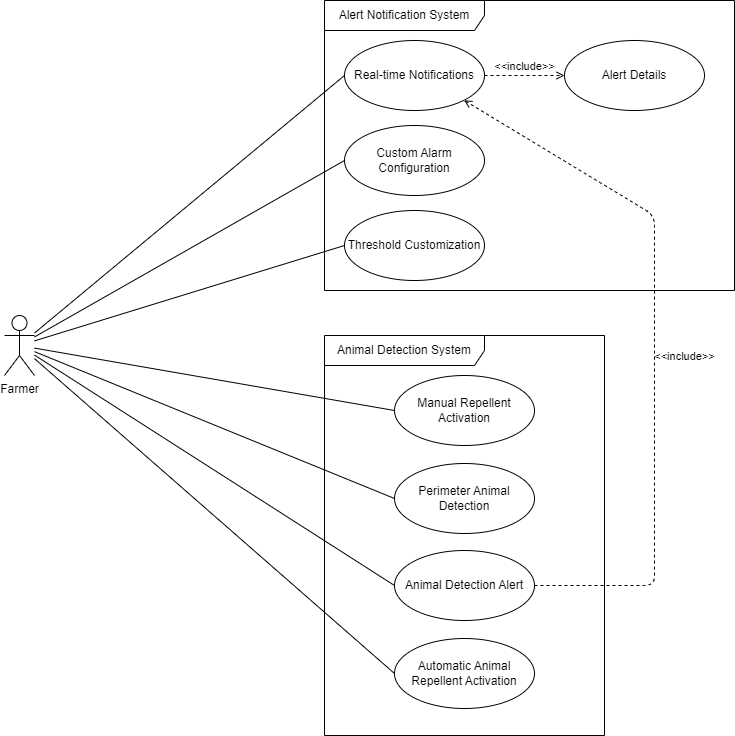
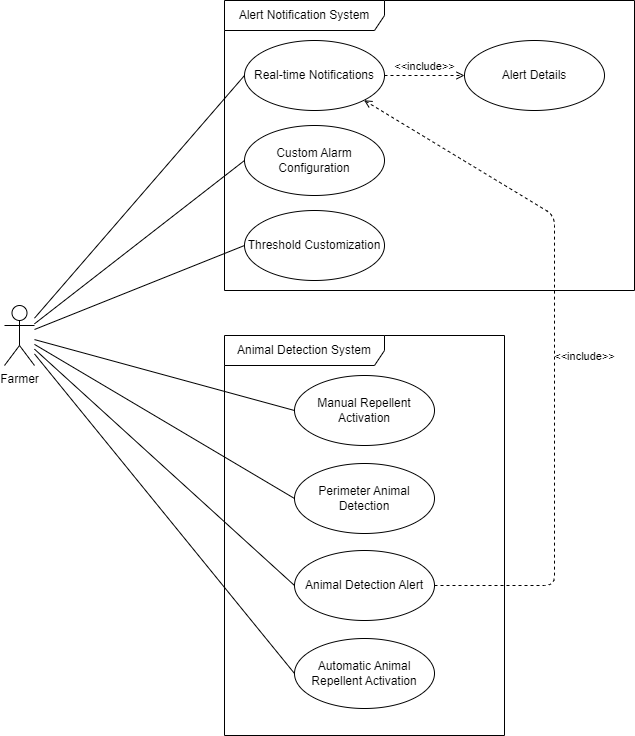
Use case described

diff --git a/includes/views.tex b/includes/views.tex
@@ -14,13 +14,39 @@ All this designing will be based on the Kruchten’s 4+1 views model\cite{Archit
 
 Use case diagrams are used to represent all the possible scenarios that implement the functionalities specified.
 
+For each subsystem use case analysis, a detailed description can be found with:
+\begin{itemize}
+    \item Actors affected by the use-case system.
+    \item The preconditions identified to achieve the functionalities described.
+    \item The post-conditions.
+    \item The basic flow of actions.
+\end{itemize}
+
 \subsubsection*{Soil moisture use cases}
 \begin{figure}[H]
     \centering
-    \includegraphics[width=0.8\textwidth]{./images/6/data_soil_alert_uses.png}
+    \includegraphics[width=0.7\textwidth]{./images/6/data_soil_alert_uses.png}
     \caption{Soil moisture use cases diagram}
 \end{figure}
-\todo[inline]{METER LA TABLA DE CASO DE USO}
+\begin{itemize}
+    \item \textbf{Name}: Soil Moisture monitoring.
+    \item \textbf{Actors}: Farmer.
+    \item \textbf{Description}: Farmers can monitor soil moisture and review historical data. The system can generate alerts.
+    \item \textbf{Pre-conditions}:
+        \begin{enumerate}
+            \item The soil moisture monitoring system must be operational.
+            \item The system must have the alert sending function enabled.
+            \item For alerts to be sent, a defined range must exist.
+            \item The user must be logged into the system.
+        \end{enumerate}
+    \item \textbf{Basic flow of actions}:
+        \begin{enumerate}
+            \item The user login into the system.
+            \item They can view the data.
+            \item If the soil moisture values are out of range, an alert is sent.
+            \item The users can view and receive the soil moisture alert.
+        \end{enumerate}
+\end{itemize}
 
 \subsubsection*{Animal detection system use cases}
 \begin{figure}[H]
@@ -28,36 +54,116 @@ Use case diagrams are used to represent all the possible scenarios that implemen
     \includegraphics[width=0.8\textwidth]{./images/6/alert_animal_uses.png}
     \caption{Animal detection system use cases diagram}
 \end{figure}
-\todo[inline]{METER LA TABLA DE CASO DE USO}
+\begin{itemize}
+    \item \textbf{Name}: Animal detection.
+    \item \textbf{Actors}: Farmer.
+    \item \textbf{Description}: Farmer can receive alerts of animal detection on the farm perimeter and manually or automatically configure the repulsion system.
+    \item \textbf{Pre-conditions}:
+        \begin{enumerate}
+            \item The animal detection system must be operational.
+            \item The system must have the alert sending function enabled.
+            \item The user must be logged into the system.
+        \end{enumerate}
+    \item \textbf{Basic flow of actions}:
+        \begin{enumerate}
+            \item The user login into the system.
+            \item The perimeter of the farm can be viewed on the map.
+            \item If an animal is detected in the perimeter, an alert is sent.
+            \item The user views the animal detection alert.
+            \item In the map the line the perimeter changes the color in reaction to the presence.
+        \end{enumerate}
+\end{itemize}
 
 \subsubsection*{User management system use cases}
 \begin{figure}[H]
     \centering
-    \includegraphics[width=0.8\textwidth]{./images/6/user_management_uses.png}
+    \includegraphics[width=0.95\textwidth]{./images/6/user_management_uses.png}
     \caption{User management system use cases diagram}
 \end{figure}
-\todo[inline]{METER LA TABLA DE CASO DE USO}
+\begin{itemize}
+    \item \textbf{Name}: User Management.
+    \item \textbf{Actors}: Farmer.
+    \item \textbf{Description}: The farmer can configure user management and assign role access to other users.
+    \item \textbf{Pre-conditions}:
+        \begin{enumerate}
+            \item A farmer is the administrator.
+            \item The roles are defined.
+            \item There must be more than one user.
+            \item The user must be logged into the system.
+        \end{enumerate}
+    \item \textbf{Basic flow of actions}:
+        \begin{enumerate}
+            \item The user login into the system.
+            \item The user can assign a role to another user.
+        \end{enumerate}
+\end{itemize}
 
 \subsubsection*{Fire detection system use cases}
 \begin{figure}[H]
     \centering
-    \includegraphics[width=0.8\textwidth]{./images/6/fire_uses.png}
+    \includegraphics[width=0.98\textwidth]{./images/6/fire_uses.png}
     \caption{Fire detection system use cases diagram}
 \end{figure}
-\todo[inline]{METER LA TABLA DE CASO DE USO}
+\begin{itemize}
+    \item \textbf{Name}: Fire Detection.
+    \item \textbf{Actors}: Farmer.
+    \item \textbf{Description}: The farmer can receive alerts of fire detection on the farm perimeter and can monitor the different sensors.
+    \item \textbf{Pre-conditions}:
+        \begin{enumerate}
+            \item The fire detection system must be operational.
+            \item The system must have the alert sending function enabled.
+            \item The user must be logged into the system.
+        \end{enumerate}
+    \item \textbf{Basic flow of actions}:
+        \begin{enumerate}
+            \item The user login into the system.
+            \item The perimeter of the farm can be viewed on the map.
+            \item If a fire is detected in the perimeter, an alert is sent.
+            \item The user views the fire detection alert.
+            \item The fire position will be detected in the map.
+        \end{enumerate}
+\end{itemize}
 
 \subsubsection*{Energy system use cases}
 \begin{figure}[H]
     \centering
-    \includegraphics[width=0.8\textwidth]{./images/6/energy.png}
+    \includegraphics[width=0.78\textwidth]{./images/6/energy.png}
     \caption{Energy system use cases diagram}
 \end{figure}
-\todo[inline]{METER LA TABLA DE CASO DE USO}
+\begin{itemize}
+    \item \textbf{Name}: Battery Management.
+    \item \textbf{Actors}: Farmer.
+    \item \textbf{Description}: The farmer can check the battery live and receive alerts of the battery status.
+    \item \textbf{Pre-conditions}:
+        \begin{enumerate}
+            \item The system must have the alert sending function enabled.
+            \item The user must be logged into the system.
+        \end{enumerate}
+    \item \textbf{Basic flow of actions}:
+        \begin{enumerate}
+            \item The user login into the system.
+            \item The user can check the battery status of the node.
+            \item If the battery is low, the system sends an alert.
+        \end{enumerate}
+\end{itemize}
 
 \subsubsection*{Weather monitoring use cases}
 \begin{figure}[H]
     \centering
-    \includegraphics[width=0.8\textwidth]{./images/6/weather_uses.png}
+    \includegraphics[width=0.95\textwidth]{./images/6/weather_uses.png}
     \caption{Weather monitoring use cases diagram}
 \end{figure}
-\todo[inline]{METER LA TABLA DE CASO DE USO}
+\begin{itemize}
+    \item \textbf{Name}: Weather Monitoring.
+    \item \textbf{Actors}: Farmer.
+    \item \textbf{Description}: Farmer can monitor the weather data.
+    \item \textbf{Pre-conditions}:
+        \begin{enumerate}
+            \item The government organization publishes weather data.
+        \end{enumerate}
+    \item \textbf{Basic flow of actions}:
+        \begin{enumerate}
+            \item The user login into the system.
+            \item The user checks the weather data.
+        \end{enumerate}
+\end{itemize}
